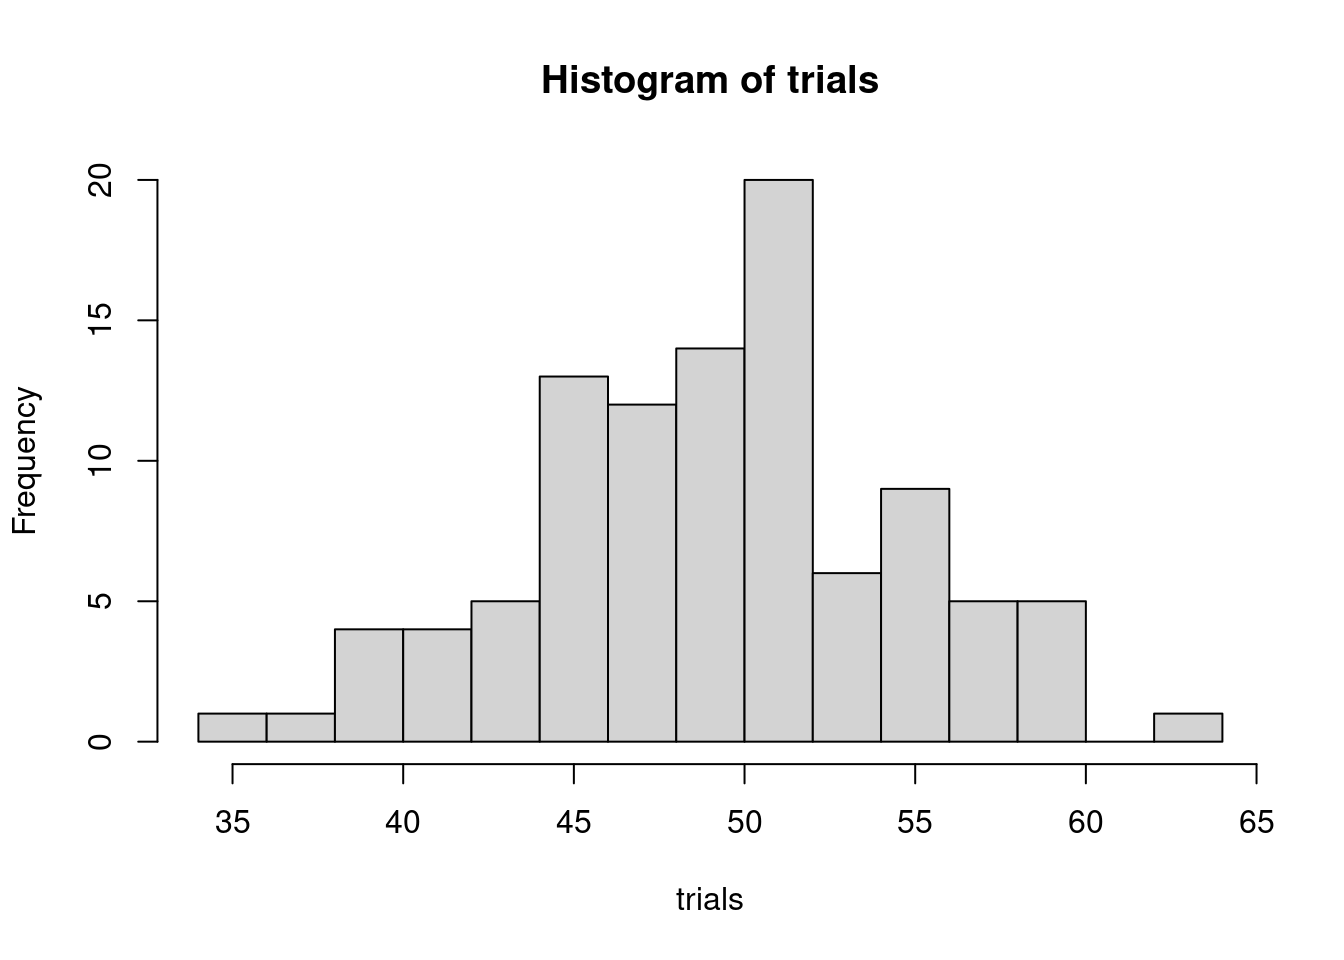
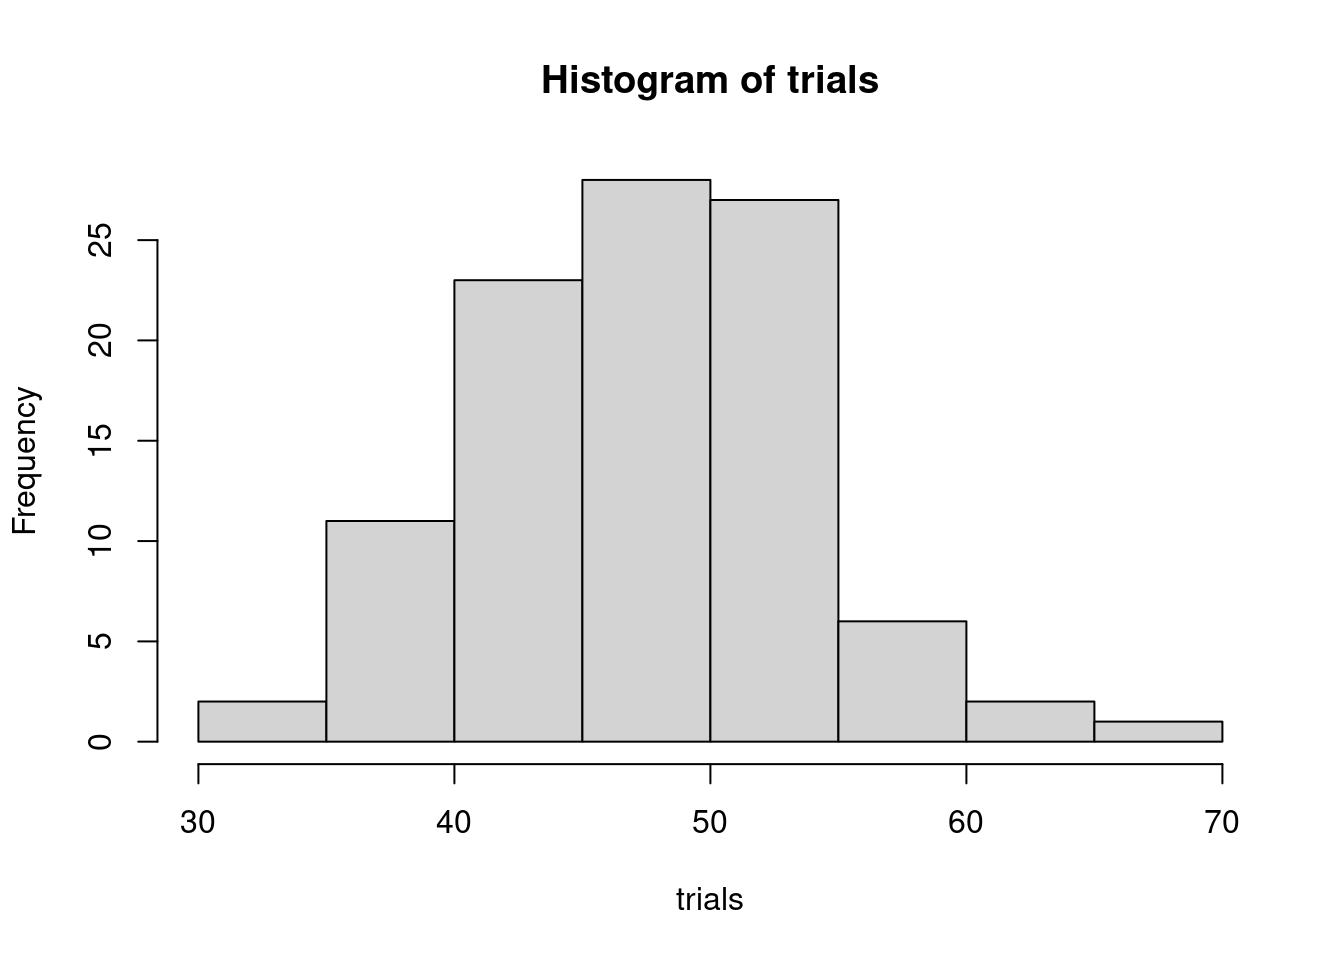
trying to get chapter 3 to update

diff --git a/_book/discrete-probability.html b/_book/discrete-probability.html
@@ -325,18 +325,18 @@ code span.wa { color: #60a0b0; font-weight: bold; font-style: italic; } /* Warni
 <div class="sourceCode" id="cb1"><pre class="sourceCode r"><code class="sourceCode r"><span id="cb1-1"><a href="discrete-probability.html#cb1-1" aria-hidden="true" tabindex="-1"></a>x <span class="ot">&lt;-</span> <span class="fu">c</span>(<span class="st">&quot;H&quot;</span>, <span class="st">&quot;T&quot;</span>)</span>
 <span id="cb1-2"><a href="discrete-probability.html#cb1-2" aria-hidden="true" tabindex="-1"></a>result <span class="ot">&lt;-</span> <span class="fu">sample</span>(x, <span class="dv">200</span>, <span class="at">replace=</span><span class="cn">TRUE</span>)</span>
 <span id="cb1-3"><a href="discrete-probability.html#cb1-3" aria-hidden="true" tabindex="-1"></a>result</span></code></pre></div>
-<pre><code>##   [1] &quot;H&quot; &quot;T&quot; &quot;H&quot; &quot;H&quot; &quot;T&quot; &quot;T&quot; &quot;T&quot; &quot;H&quot; &quot;H&quot; &quot;H&quot; &quot;T&quot; &quot;T&quot; &quot;H&quot; &quot;T&quot; &quot;H&quot; &quot;T&quot; &quot;H&quot; &quot;T&quot;
-##  [19] &quot;T&quot; &quot;H&quot; &quot;T&quot; &quot;T&quot; &quot;T&quot; &quot;H&quot; &quot;T&quot; &quot;T&quot; &quot;T&quot; &quot;T&quot; &quot;T&quot; &quot;H&quot; &quot;T&quot; &quot;H&quot; &quot;T&quot; &quot;T&quot; &quot;T&quot; &quot;T&quot;
-##  [37] &quot;T&quot; &quot;H&quot; &quot;T&quot; &quot;T&quot; &quot;T&quot; &quot;H&quot; &quot;T&quot; &quot;H&quot; &quot;H&quot; &quot;T&quot; &quot;T&quot; &quot;T&quot; &quot;T&quot; &quot;T&quot; &quot;H&quot; &quot;H&quot; &quot;H&quot; &quot;T&quot;
-##  [55] &quot;H&quot; &quot;T&quot; &quot;H&quot; &quot;H&quot; &quot;T&quot; &quot;H&quot; &quot;H&quot; &quot;T&quot; &quot;T&quot; &quot;T&quot; &quot;H&quot; &quot;H&quot; &quot;T&quot; &quot;H&quot; &quot;H&quot; &quot;H&quot; &quot;T&quot; &quot;H&quot;
-##  [73] &quot;T&quot; &quot;T&quot; &quot;T&quot; &quot;H&quot; &quot;H&quot; &quot;T&quot; &quot;T&quot; &quot;H&quot; &quot;T&quot; &quot;T&quot; &quot;H&quot; &quot;H&quot; &quot;H&quot; &quot;H&quot; &quot;H&quot; &quot;T&quot; &quot;T&quot; &quot;T&quot;
-##  [91] &quot;T&quot; &quot;H&quot; &quot;H&quot; &quot;H&quot; &quot;H&quot; &quot;H&quot; &quot;T&quot; &quot;H&quot; &quot;H&quot; &quot;H&quot; &quot;H&quot; &quot;T&quot; &quot;H&quot; &quot;T&quot; &quot;H&quot; &quot;T&quot; &quot;T&quot; &quot;T&quot;
-## [109] &quot;T&quot; &quot;H&quot; &quot;T&quot; &quot;T&quot; &quot;H&quot; &quot;H&quot; &quot;H&quot; &quot;H&quot; &quot;T&quot; &quot;T&quot; &quot;H&quot; &quot;H&quot; &quot;H&quot; &quot;T&quot; &quot;T&quot; &quot;T&quot; &quot;H&quot; &quot;H&quot;
-## [127] &quot;T&quot; &quot;H&quot; &quot;T&quot; &quot;H&quot; &quot;H&quot; &quot;H&quot; &quot;H&quot; &quot;T&quot; &quot;T&quot; &quot;T&quot; &quot;H&quot; &quot;H&quot; &quot;T&quot; &quot;T&quot; &quot;H&quot; &quot;T&quot; &quot;H&quot; &quot;T&quot;
-## [145] &quot;H&quot; &quot;T&quot; &quot;H&quot; &quot;T&quot; &quot;H&quot; &quot;T&quot; &quot;T&quot; &quot;T&quot; &quot;T&quot; &quot;T&quot; &quot;H&quot; &quot;T&quot; &quot;T&quot; &quot;T&quot; &quot;T&quot; &quot;H&quot; &quot;T&quot; &quot;T&quot;
-## [163] &quot;T&quot; &quot;H&quot; &quot;T&quot; &quot;T&quot; &quot;H&quot; &quot;H&quot; &quot;H&quot; &quot;H&quot; &quot;H&quot; &quot;H&quot; &quot;H&quot; &quot;H&quot; &quot;T&quot; &quot;T&quot; &quot;H&quot; &quot;H&quot; &quot;T&quot; &quot;T&quot;
-## [181] &quot;T&quot; &quot;T&quot; &quot;T&quot; &quot;H&quot; &quot;H&quot; &quot;H&quot; &quot;T&quot; &quot;H&quot; &quot;T&quot; &quot;T&quot; &quot;T&quot; &quot;H&quot; &quot;T&quot; &quot;H&quot; &quot;T&quot; &quot;H&quot; &quot;H&quot; &quot;H&quot;
-## [199] &quot;H&quot; &quot;H&quot;</code></pre>
+<pre><code>##   [1] &quot;H&quot; &quot;T&quot; &quot;H&quot; &quot;T&quot; &quot;H&quot; &quot;H&quot; &quot;T&quot; &quot;H&quot; &quot;T&quot; &quot;H&quot; &quot;H&quot; &quot;H&quot; &quot;T&quot; &quot;H&quot; &quot;H&quot; &quot;T&quot; &quot;H&quot; &quot;H&quot;
+##  [19] &quot;H&quot; &quot;H&quot; &quot;T&quot; &quot;H&quot; &quot;T&quot; &quot;H&quot; &quot;T&quot; &quot;H&quot; &quot;T&quot; &quot;T&quot; &quot;T&quot; &quot;H&quot; &quot;H&quot; &quot;H&quot; &quot;T&quot; &quot;T&quot; &quot;H&quot; &quot;T&quot;
+##  [37] &quot;H&quot; &quot;H&quot; &quot;H&quot; &quot;H&quot; &quot;H&quot; &quot;T&quot; &quot;T&quot; &quot;T&quot; &quot;T&quot; &quot;H&quot; &quot;T&quot; &quot;T&quot; &quot;H&quot; &quot;H&quot; &quot;H&quot; &quot;H&quot; &quot;H&quot; &quot;H&quot;
+##  [55] &quot;T&quot; &quot;T&quot; &quot;T&quot; &quot;H&quot; &quot;H&quot; &quot;T&quot; &quot;H&quot; &quot;T&quot; &quot;T&quot; &quot;H&quot; &quot;T&quot; &quot;T&quot; &quot;H&quot; &quot;H&quot; &quot;H&quot; &quot;T&quot; &quot;T&quot; &quot;H&quot;
+##  [73] &quot;T&quot; &quot;T&quot; &quot;T&quot; &quot;H&quot; &quot;T&quot; &quot;T&quot; &quot;T&quot; &quot;H&quot; &quot;H&quot; &quot;H&quot; &quot;H&quot; &quot;T&quot; &quot;H&quot; &quot;T&quot; &quot;T&quot; &quot;H&quot; &quot;T&quot; &quot;H&quot;
+##  [91] &quot;T&quot; &quot;H&quot; &quot;H&quot; &quot;H&quot; &quot;T&quot; &quot;H&quot; &quot;T&quot; &quot;H&quot; &quot;H&quot; &quot;T&quot; &quot;T&quot; &quot;T&quot; &quot;H&quot; &quot;H&quot; &quot;H&quot; &quot;H&quot; &quot;T&quot; &quot;H&quot;
+## [109] &quot;H&quot; &quot;T&quot; &quot;T&quot; &quot;T&quot; &quot;T&quot; &quot;T&quot; &quot;T&quot; &quot;H&quot; &quot;H&quot; &quot;H&quot; &quot;T&quot; &quot;H&quot; &quot;T&quot; &quot;H&quot; &quot;T&quot; &quot;T&quot; &quot;T&quot; &quot;H&quot;
+## [127] &quot;H&quot; &quot;H&quot; &quot;H&quot; &quot;H&quot; &quot;H&quot; &quot;T&quot; &quot;H&quot; &quot;T&quot; &quot;T&quot; &quot;T&quot; &quot;H&quot; &quot;H&quot; &quot;H&quot; &quot;T&quot; &quot;H&quot; &quot;H&quot; &quot;H&quot; &quot;H&quot;
+## [145] &quot;T&quot; &quot;H&quot; &quot;H&quot; &quot;T&quot; &quot;H&quot; &quot;T&quot; &quot;T&quot; &quot;H&quot; &quot;H&quot; &quot;T&quot; &quot;H&quot; &quot;T&quot; &quot;T&quot; &quot;H&quot; &quot;H&quot; &quot;T&quot; &quot;T&quot; &quot;T&quot;
+## [163] &quot;T&quot; &quot;H&quot; &quot;H&quot; &quot;H&quot; &quot;H&quot; &quot;T&quot; &quot;H&quot; &quot;T&quot; &quot;H&quot; &quot;H&quot; &quot;H&quot; &quot;H&quot; &quot;T&quot; &quot;H&quot; &quot;H&quot; &quot;H&quot; &quot;T&quot; &quot;H&quot;
+## [181] &quot;H&quot; &quot;H&quot; &quot;T&quot; &quot;H&quot; &quot;H&quot; &quot;H&quot; &quot;H&quot; &quot;T&quot; &quot;T&quot; &quot;T&quot; &quot;T&quot; &quot;H&quot; &quot;H&quot; &quot;H&quot; &quot;H&quot; &quot;H&quot; &quot;T&quot; &quot;H&quot;
+## [199] &quot;T&quot; &quot;H&quot;</code></pre>
 <p>You can also pass the sample command a list of probabilities for each element of x; note that order matters so check it. For a fair coin the default of each outcome being equally likely works. However note that unfair coins are not unheard of - you can purchase them at magic and toy shops.</p>
 <p>A typical human trying to fake coin flips will distribute them too uniformly and will not have as many long sequences of “H” as we expect to see from an actual experiment.</p>
 </div>
@@ -346,16 +346,16 @@ code span.wa { color: #60a0b0; font-weight: bold; font-style: italic; } /* Warni
 <div class="sourceCode" id="cb3"><pre class="sourceCode r"><code class="sourceCode r"><span id="cb3-1"><a href="discrete-probability.html#cb3-1" aria-hidden="true" tabindex="-1"></a>x <span class="ot">&lt;-</span> <span class="fu">c</span>(<span class="dv">1</span>, <span class="dv">0</span>)</span>
 <span id="cb3-2"><a href="discrete-probability.html#cb3-2" aria-hidden="true" tabindex="-1"></a>result <span class="ot">&lt;-</span> <span class="fu">sample</span>(x, <span class="dv">130</span>, <span class="at">replace =</span> <span class="cn">TRUE</span>, <span class="at">prob=</span><span class="fu">c</span>(<span class="fl">0.38</span>, <span class="fl">0.62</span>) )</span>
 <span id="cb3-3"><a href="discrete-probability.html#cb3-3" aria-hidden="true" tabindex="-1"></a>result</span></code></pre></div>
-<pre><code>##   [1] 1 0 1 0 0 1 1 1 1 0 0 0 0 0 1 0 0 0 1 0 1 0 0 0 0 1 1 0 0 0 0 0 1 0 1 1 0
-##  [38] 1 0 0 1 0 1 0 0 0 0 0 1 0 0 1 1 0 1 0 0 1 0 0 0 1 0 0 0 0 0 0 0 1 1 0 0 0
-##  [75] 1 1 0 1 1 0 0 1 0 0 0 1 0 1 1 0 0 0 1 0 1 0 0 1 0 1 0 0 0 0 0 0 0 1 0 0 0
-## [112] 1 0 1 0 0 0 1 1 0 0 0 0 0 0 0 0 0 0 1</code></pre>
+<pre><code>##   [1] 1 1 0 0 1 0 1 1 1 1 0 1 1 0 0 0 0 1 0 1 0 1 1 1 1 0 0 1 1 0 0 0 1 0 1 1 1
+##  [38] 0 0 0 1 0 1 0 1 1 0 1 0 0 0 0 0 1 0 0 1 1 0 1 1 0 1 1 1 1 0 0 1 1 1 0 0 1
+##  [75] 0 0 0 1 0 0 0 0 0 0 1 1 0 0 0 1 0 1 0 1 0 1 0 0 0 1 0 1 0 1 0 0 1 1 1 0 1
+## [112] 1 0 1 1 1 0 1 1 0 1 1 0 0 1 1 1 0 0 1</code></pre>
 <p>You may notice that rather than using strings for the entries in <em>x</em> I used 1 and 0. The reason is that what we care about is the number of students that are food insecure, this is our random variable of interest and now we can compute its value by just summing up the numbers in <em>result</em> the value of which will be the number of 1s.</p>
 <div class="sourceCode" id="cb5"><pre class="sourceCode r"><code class="sourceCode r"><span id="cb5-1"><a href="discrete-probability.html#cb5-1" aria-hidden="true" tabindex="-1"></a><span class="fu">sum</span>(result)</span></code></pre></div>
-<pre><code>## [1] 43</code></pre>
+<pre><code>## [1] 65</code></pre>
 <p>Because the <em>sample</em> command uses (pseudo)-random numbers, if we run this again we will get a different result (also note each time I compile this textbook the values change). Do it a few times yourself and see what we get.</p>
 <div class="sourceCode" id="cb7"><pre class="sourceCode r"><code class="sourceCode r"><span id="cb7-1"><a href="discrete-probability.html#cb7-1" aria-hidden="true" tabindex="-1"></a><span class="fu">sum</span>(<span class="fu">sample</span>(x, <span class="dv">130</span>, <span class="at">replace=</span><span class="cn">TRUE</span>, <span class="at">prob=</span><span class="fu">c</span>(<span class="fl">0.38</span>, <span class="fl">0.62</span>)))</span></code></pre></div>
-<pre><code>## [1] 57</code></pre>
+<pre><code>## [1] 39</code></pre>
 <p>This is a little bit tedious to run a bunch of times and we also should be keeping track of the results. For example, what is the smallest value you have seen so far? Luckily, one of the things computers are absolutely brilliant at is doing the same thing over and over and keeping track of the results. Let me introduce you to one of the two real programming structures we will use in this class: a <em>for loop</em>. A for loop tells the computer to complete the same set of commands multiple times.</p>
 <div class="sourceCode" id="cb9"><pre class="sourceCode r"><code class="sourceCode r"><span id="cb9-1"><a href="discrete-probability.html#cb9-1" aria-hidden="true" tabindex="-1"></a><span class="co"># We are going to keep track of the results in a variable called trials, so we first initalize this variable as an empty column</span></span>
 <span id="cb9-2"><a href="discrete-probability.html#cb9-2" aria-hidden="true" tabindex="-1"></a>trials <span class="ot">&lt;-</span> <span class="fu">c</span>()</span>
@@ -369,17 +369,17 @@ code span.wa { color: #60a0b0; font-weight: bold; font-style: italic; } /* Warni
 <span id="cb9-10"><a href="discrete-probability.html#cb9-10" aria-hidden="true" tabindex="-1"></a>}</span>
 <span id="cb9-11"><a href="discrete-probability.html#cb9-11" aria-hidden="true" tabindex="-1"></a></span>
 <span id="cb9-12"><a href="discrete-probability.html#cb9-12" aria-hidden="true" tabindex="-1"></a>trials</span></code></pre></div>
-<pre><code>##   [1] 53 46 56 52 47 39 47 39 48 50 52 47 44 43 50 44 50 50 60 52 46 58 46 63 51
-##  [26] 55 51 48 45 45 58 52 38 47 51 53 48 50 50 55 43 58 56 53 39 46 46 40 51 49
-##  [51] 46 49 47 47 35 59 52 47 49 51 46 56 45 49 42 52 51 53 53 52 41 50 60 45 53
-##  [76] 56 45 49 48 57 55 56 50 52 48 41 43 52 51 46 59 42 52 50 51 52 58 51 59 55</code></pre>
+<pre><code>##   [1] 44 54 51 46 56 40 50 54 47 50 51 54 43 37 46 47 50 34 53 49 44 54 44 45 33
+##  [26] 52 42 45 49 54 56 57 53 61 49 49 44 52 41 51 48 45 43 48 54 46 52 53 37 45
+##  [51] 50 42 52 50 43 56 57 48 50 39 48 44 44 41 43 45 40 50 38 56 36 45 48 51 42
+##  [76] 48 48 47 46 52 66 54 48 53 61 40 42 45 38 51 48 40 40 54 50 53 53 53 55 52</code></pre>
 <p>Let’s use a historgram to look at the result:</p>
 <div class="sourceCode" id="cb11"><pre class="sourceCode r"><code class="sourceCode r"><span id="cb11-1"><a href="discrete-probability.html#cb11-1" aria-hidden="true" tabindex="-1"></a><span class="co"># The paramter breaks is determining how many bins to use</span></span>
 <span id="cb11-2"><a href="discrete-probability.html#cb11-2" aria-hidden="true" tabindex="-1"></a><span class="fu">hist</span>(trials, <span class="at">breaks=</span><span class="dv">10</span>)</span></code></pre></div>
 <p><img src="_main_files/figure-html/unnamed-chunk-6-1.png" width="672" /></p>
 <div class="sourceCode" id="cb12"><pre class="sourceCode r"><code class="sourceCode r"><span id="cb12-1"><a href="discrete-probability.html#cb12-1" aria-hidden="true" tabindex="-1"></a><span class="fu">summary</span>(trials)</span></code></pre></div>
 <pre><code>##    Min. 1st Qu.  Median    Mean 3rd Qu.    Max. 
-##   35.00   46.00   50.00   49.68   53.00   63.00</code></pre>
+##   33.00   44.00   48.00   47.97   52.25   66.00</code></pre>
 <p>So interestingly the minimum value is not very small. What does this tell us about the number of mathematics majors we might see that are food insecure? What would our interpretation be if we found only 10 of the mathematics majors were food insecure?</p>
 <p>Finally you can probably tell me you are not surprised that the mean is close to</p>
 <div class="sourceCode" id="cb14"><pre class="sourceCode r"><code class="sourceCode r"><span id="cb14-1"><a href="discrete-probability.html#cb14-1" aria-hidden="true" tabindex="-1"></a><span class="fl">0.38</span> <span class="sc">*</span> <span class="dv">130</span></span></code></pre></div>
